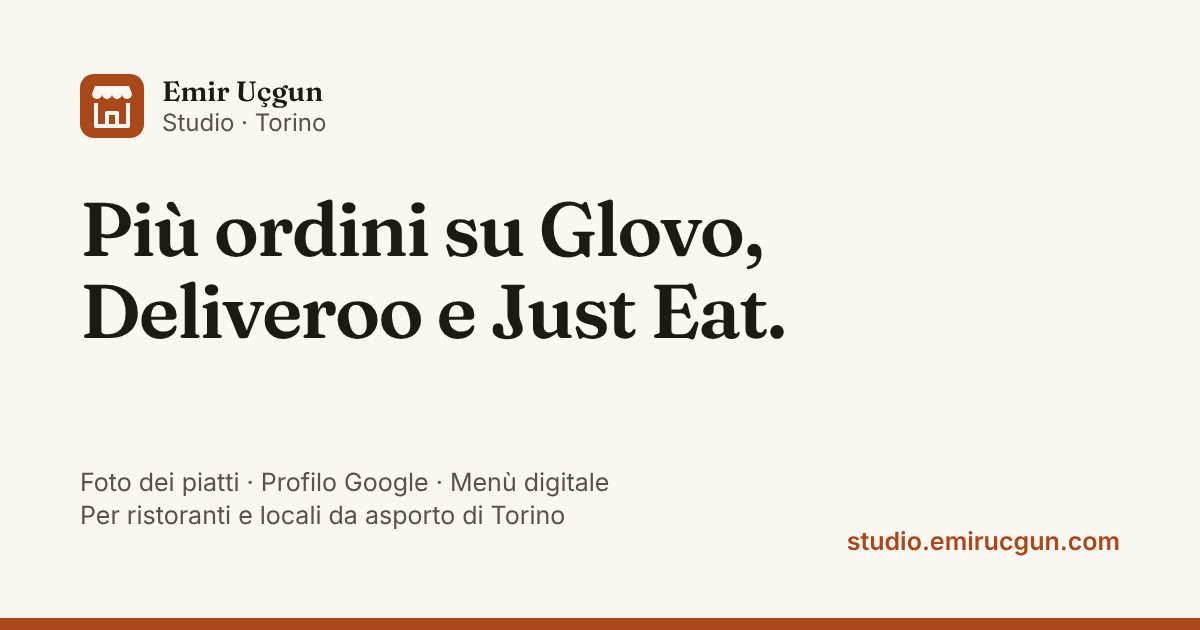
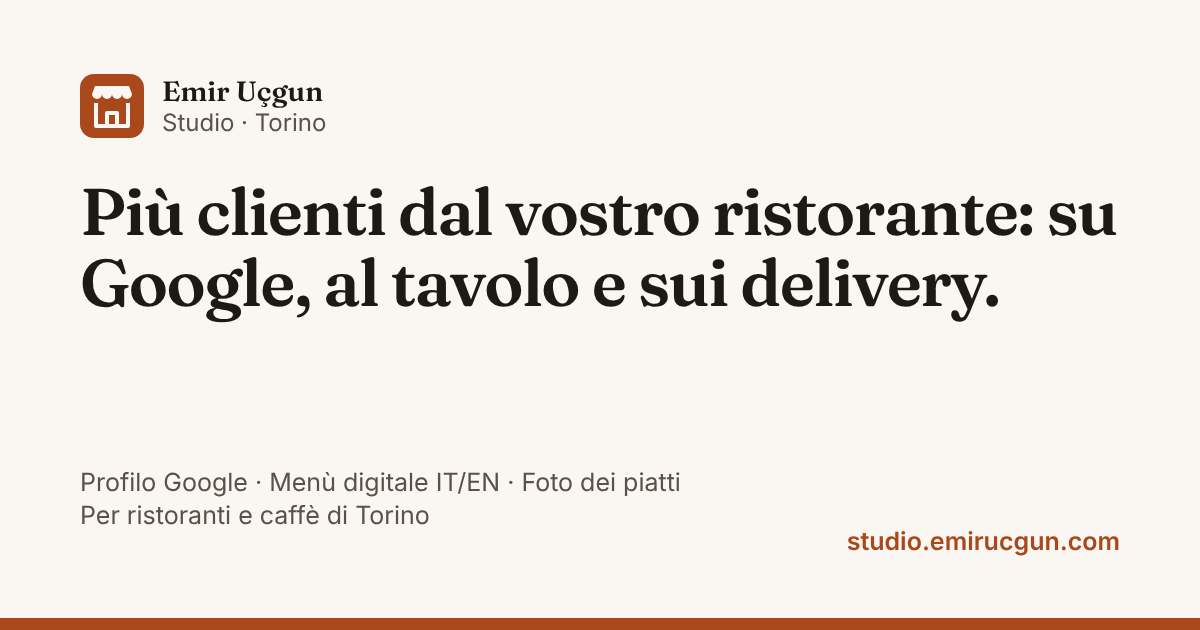
Studio: widen niche to Turin restaurants and cafés
- Hero: "Più clienti dal vostro ristorante: su Google, al tavolo e sui delivery."
- Three benefits in order: Google profile, IT/EN QR table menu, photos that sell on delivery apps
- "Foto Delivery" renamed "Foto dei piatti"; photos described for Google, menu, Instagram and delivery
- Delivery-only wording softened across how-I-work, FAQ, contact, config message, meta and og.png
- FAQ: English menu question and "I don't do delivery" question; prices unchanged

Claude-Session: https://claude.ai/code/session_01X2zHFE49Ky4rAq2XojQ9Pf

Changed region(s): [[0.0617, 0.3016, 0.925, 0.5429], [0.0617, 0.7238, 0.5858, 0.8444]]

diff --git a/studio/index.html b/studio/index.html
@@ -1,24 +1,24 @@
 <!doctype html>
-<html lang="it" data-title-en="Delivery dish photos and digital menus for Turin restaurants · Emir Uçgun">
+<html lang="it" data-title-en="Google profile, digital menu and dish photos for Turin restaurants · Emir Uçgun">
 <head>
 <meta charset="utf-8">
 <meta name="viewport" content="width=device-width, initial-scale=1, viewport-fit=cover">
 <script>(function(){var d=document.documentElement,l;d.classList.add('js');try{l=new URLSearchParams(location.search).get('lang')||localStorage.getItem('lang')}catch(e){}if(l==='en')d.lang='en'})();</script>
-<title>Foto piatti per il delivery e menù digitale per ristoranti a Torino · Emir Uçgun</title>
-<meta name="description" content="Foto dei piatti per Glovo, Deliveroo e Just Eat, profilo Google in ordine e menù digitale per ristoranti, pizzerie e locali da asporto di Torino. Analisi gratuita, nessuna password: prima vedete l'anteprima, poi pagate.">
+<title>Profilo Google, menù digitale e foto dei piatti per ristoranti a Torino · Emir Uçgun</title>
+<meta name="description" content="Più clienti per ristoranti e caffè di Torino: profilo Google che porta gente, menù digitale IT/EN con QR per i tavoli e foto dei piatti per Google, Instagram e app di delivery. Analisi gratuita, nessuna password.">
 <link rel="canonical" href="https://studio.emirucgun.com/">
 <meta name="theme-color" content="#FAF7F2">
 <meta property="og:type" content="website">
 <meta property="og:site_name" content="Emir Uçgun · Studio">
 <meta property="og:locale" content="it_IT">
 <meta property="og:locale:alternate" content="en_GB">
-<meta property="og:title" content="Più ordini su Glovo, Deliveroo e Just Eat · Foto piatti delivery a Torino">
-<meta property="og:description" content="Foto dei piatti che fanno venire fame, profilo Google in ordine e menù digitale per ristoranti di Torino. Analisi gratuita e senza impegno.">
+<meta property="og:title" content="Più clienti dal vostro ristorante: su Google, al tavolo e sui delivery">
+<meta property="og:description" content="Profilo Google in ordine, menù digitale IT/EN con QR e foto dei piatti per ristoranti e caffè di Torino. Analisi gratuita e senza impegno.">
 <meta property="og:url" content="https://studio.emirucgun.com/">
 <meta property="og:image" content="https://studio.emirucgun.com/studio/og.png">
 <meta property="og:image:width" content="1200">
 <meta property="og:image:height" content="630">
-<meta property="og:image:alt" content="Emir Uçgun: più ordini su Glovo, Deliveroo e Just Eat per i ristoranti di Torino">
+<meta property="og:image:alt" content="Emir Uçgun: più clienti per i ristoranti di Torino, su Google, al tavolo e sui delivery">
 <meta name="twitter:card" content="summary_large_image">
 <link rel="icon" href="/studio/favicon.svg" type="image/svg+xml">
 <link rel="apple-touch-icon" href="/studio/apple-touch-icon.png">
@@ -149,7 +149,8 @@ section{padding-block:clamp(64px,10vw,120px)}
 @media (min-width:760px){.problem .grid-3 .point + .point{border-top:0;padding-top:0;border-left:1px solid var(--line);padding-left:22px}}
 /* proof: what the platforms themselves report (no numbers of my own) */
 .proof{margin-top:clamp(48px,7vw,72px);padding-top:clamp(36px,5vw,48px);border-top:1px solid var(--line)}
-.proof > h3{font-size:clamp(1.4rem,3vw,1.75rem);margin-bottom:22px}
+.proof > h3{font-size:clamp(1.4rem,3vw,1.75rem)}
+.proof-lead{color:var(--ink-2);margin:8px 0 22px}
 .facts-2{display:grid;gap:16px}
 @media (min-width:760px){.facts-2{grid-template-columns:repeat(2,1fr);gap:22px}}
 .fact{background:var(--tint-2);border:1px solid var(--tint);border-radius:var(--r);padding:22px 24px;display:grid;gap:10px;align-content:start}
@@ -192,7 +193,7 @@ section{padding-block:clamp(64px,10vw,120px)}
 .custom p{color:var(--ink-2)}
 .custom p strong{color:var(--ink)}
 
-/* ---------- delivery photos ---------- */
+/* ---------- dish photos ---------- */
 .photos{background:var(--surface);border-bottom:1px solid var(--line)}
 .photos .head{margin-bottom:clamp(28px,5vw,44px)}
 .photos-body{display:grid;gap:36px;align-items:start}
@@ -401,7 +402,6 @@ footer p + p{margin-top:4px}
   <defs>
     <symbol id="i-check" viewBox="0 0 24 24"><path d="M4.5 12.5l5 5L19.5 7"/></symbol>
     <symbol id="i-pin" viewBox="0 0 24 24"><path d="M12 21s-7-6.2-7-11.5A7 7 0 0 1 19 9.5C19 14.8 12 21 12 21z"/><circle cx="12" cy="9.5" r="2.6"/></symbol>
-    <symbol id="i-alert" viewBox="0 0 24 24"><path d="M12 3.5L2.8 19.5h18.4z"/><path d="M12 10v4.2M12 17h.01"/></symbol>
     <symbol id="i-clock" viewBox="0 0 24 24"><circle cx="12" cy="12" r="8.5"/><path d="M12 7.5V12l3 2"/></symbol>
     <symbol id="i-gift" viewBox="0 0 24 24"><path d="M4 11h16v9H4zM3 7.5h18V11H3zM12 7.5V20"/><path d="M12 7.5S10.8 3.5 8.5 3.5a2 2 0 0 0 0 4M12 7.5s1.2-4 3.5-4a2 2 0 0 1 0 4"/></symbol>
     <symbol id="i-key" viewBox="0 0 24 24"><rect x="4.5" y="10.5" width="15" height="10" rx="2"/><path d="M8 10.5V7.5a4 4 0 0 1 8 0v3M12 14.5v2.5"/></symbol>
@@ -447,11 +447,11 @@ footer p + p{margin-top:4px}
 <section class="hero" aria-labelledby="hero-title">
   <div class="wrap">
     <div>
-      <p class="eyebrow"><span lang="it">Per ristoranti e locali da asporto · Torino</span><span lang="en">For restaurants and takeaways · Turin</span></p>
-      <h1 id="hero-title"><span lang="it">Più ordini su Glovo, Deliveroo e Just Eat.</span><span lang="en">More orders on Glovo, Deliveroo and Just Eat.</span></h1>
+      <p class="eyebrow"><span lang="it">Per ristoranti e caffè · Torino</span><span lang="en">For restaurants and cafés · Turin</span></p>
+      <h1 id="hero-title"><span lang="it">Più clienti dal vostro ristorante: su Google, al tavolo e sui delivery.</span><span lang="en">More customers for your restaurant: on Google, at the table and on delivery apps.</span></h1>
       <p class="lead">
-        <span lang="it">Foto dei piatti che fanno venire fame, profilo Google in ordine e menù chiaro. Per ristoranti, pizzerie e locali da asporto di Torino.</span>
-        <span lang="en">Dish photos that make people hungry, a tidy Google profile and a clear menu. For restaurants, pizzerias and takeaways in Turin.</span>
+        <span lang="it">Un profilo Google che porta gente, un menù digitale IT/EN per i tavoli e foto dei piatti che vendono anche sui delivery. Per trattorie, osterie, bistrot, pizzerie e ristoranti etnici di Torino.</span>
+        <span lang="en">A Google profile that brings people in, an IT/EN digital menu for your tables and dish photos that sell on delivery apps too. For trattorias, osterias, bistros, pizzerias and ethnic restaurants in Turin.</span>
       </p>
       <div class="cta">
         <a class="btn btn-primary" href="#contatti" data-wa>
@@ -486,28 +486,29 @@ footer p + p{margin-top:4px}
   </div>
 </section>
 
-<!-- ============ 2. THE PROBLEM + what the platforms report ============ -->
+<!-- ============ 2. THREE BENEFITS (in this order: Google, menu, photos) + what the platforms report ============ -->
 <section class="problem" aria-labelledby="problem-title">
   <div class="wrap">
     <div class="head">
-      <p class="eyebrow"><span lang="it">Perché conta</span><span lang="en">Why it matters</span></p>
-      <h2 id="problem-title"><span lang="it">Sulle app di delivery si ordina con gli occhi.</span><span lang="en">On delivery apps, people order with their eyes.</span></h2>
+      <p class="eyebrow"><span lang="it">Cosa faccio per voi</span><span lang="en">What I do for you</span></p>
+      <h2 id="problem-title"><span lang="it">Tre modi per portare più clienti al vostro locale.</span><span lang="en">Three ways to bring more customers to your restaurant.</span></h2>
+      <p class="lead"><span lang="it">Voi avete già una cucina da mandare avanti: a questa parte penso io.</span><span lang="en">You already have a kitchen to run: I take care of this part.</span></p>
     </div>
     <div class="grid-3">
       <div class="point">
-        <div class="num"><svg class="ico" aria-hidden="true"><use href="#i-clock"/></svg></div>
-        <h3><span lang="it">Si decide in pochi secondi</span><span lang="en">The choice takes a few seconds</span></h3>
-        <p><span lang="it">Su Glovo, Deliveroo e Just Eat il cliente scorre decine di locali e sceglie guardando le foto, prima ancora di leggere i prezzi.</span><span lang="en">On Glovo, Deliveroo and Just Eat, customers scroll past dozens of places and choose by the photos, before they even read the prices.</span></p>
+        <div class="num"><svg class="ico" aria-hidden="true"><use href="#i-pin"/></svg></div>
+        <h3><span lang="it">1. Un profilo Google che porta gente</span><span lang="en">1. A Google profile that brings people in</span></h3>
+        <p><span lang="it">Chi cerca dove mangiare decide su Google Maps. Foto belle, orari giusti, menù e recensioni con risposta: così sceglie voi e non il locale accanto.</span><span lang="en">People looking for somewhere to eat decide on Google Maps. Good photos, the right hours, a menu and answered reviews: that's how they pick you, not the place next door.</span></p>
+      </div>
+      <div class="point">
+        <div class="num"><svg class="ico" aria-hidden="true"><use href="#i-book"/></svg></div>
+        <h3><span lang="it">2. Un menù al tavolo che parla anche inglese</span><span lang="en">2. A table menu that speaks English too</span></h3>
+        <p><span lang="it">Menù digitale IT/EN con QR: i turisti capiscono piatti, prezzi e allergeni senza dover chiedere, e voi cambiate un prezzo senza ristampare nulla.</span><span lang="en">An IT/EN digital menu with a QR code: tourists understand dishes, prices and allergens without having to ask, and you change a price without reprinting anything.</span></p>
       </div>
       <div class="point">
         <div class="num"><svg class="ico" aria-hidden="true"><use href="#i-image"/></svg></div>
-        <h3><span lang="it">Senza una bella foto, il piatto viene saltato</span><span lang="en">Without a good photo, the dish gets skipped</span></h3>
-        <p><span lang="it">Piatti senza foto, o con foto scure fatte al volo col telefono, passano inosservati. Anche quando sono buonissimi.</span><span lang="en">Dishes with no photo, or a dark snap taken on a phone, go unnoticed. Even when they taste great.</span></p>
-      </div>
-      <div class="point">
-        <div class="num"><svg class="ico" aria-hidden="true"><use href="#i-alert"/></svg></div>
-        <h3><span lang="it">E voi non avete tempo</span><span lang="en">And you don't have the time</span></h3>
-        <p><span lang="it">Tra cucina, ordini e personale, sistemare menù, foto e profilo Google resta sempre in fondo alla lista. Di questo mi occupo io.</span><span lang="en">Between the kitchen, orders and staff, fixing menus, photos and Google always ends up at the bottom of the list. I take care of it.</span></p>
+        <h3><span lang="it">3. Foto che vendono, anche sui delivery</span><span lang="en">3. Photos that sell, on delivery apps too</span></h3>
+        <p><span lang="it">Su Glovo, Deliveroo e Just Eat si sceglie con gli occhi, in pochi secondi. Le stesse foto lavorano anche su Google, sul menù e su Instagram.</span><span lang="en">On Glovo, Deliveroo and Just Eat people choose with their eyes, in seconds. The same photos also work on Google, on your menu and on Instagram.</span></p>
       </div>
     </div>
 
@@ -517,6 +518,7 @@ footer p + p{margin-top:4px}
          DoorDash: merchants.doordash.com, "menu quality" article (at least 50% photo coverage, +13% sales on average). -->
     <div class="proof">
       <h3><span lang="it">I numeri delle piattaforme</span><span lang="en">What the platforms report</span></h3>
+      <p class="proof-lead"><span lang="it">Quanto contano le foto dei piatti, secondo le app di delivery:</span><span lang="en">How much dish photos matter, according to the delivery apps:</span></p>
       <div class="facts-2">
         <div class="fact">
           <span class="big">+25%</span>
@@ -534,15 +536,15 @@ footer p + p{margin-top:4px}
   </div>
 </section>
 
-<!-- ============ 3. PHOTOS FOR DELIVERY (the centerpiece) ============
+<!-- ============ 3. DISH PHOTOS (the centerpiece) ============
      The comparison uses /studio/food-before-1.jpg and /studio/food-after-1.jpg (same size and framing,
      4:3, about 1600 × 1200 px, under 250 KB each). Until both files exist, a neutral placeholder is shown. -->
 <section id="foto" class="photos" aria-labelledby="photos-title">
   <div class="wrap">
     <div class="head">
-      <p class="eyebrow"><span lang="it">Foto per il delivery</span><span lang="en">Photos for delivery apps</span></p>
+      <p class="eyebrow"><span lang="it">Foto dei piatti</span><span lang="en">Dish photos</span></p>
       <h2 id="photos-title"><span lang="it">Piatti veri, foto che fanno venire fame.</span><span lang="en">Real dishes, photos that make people hungry.</span></h2>
-      <p class="lead"><span lang="it">Le foto che fate con il telefono possono rendere molto di più. Trascinate per vedere la differenza.</span><span lang="en">The photos you take on your phone can do a lot more. Drag to see the difference.</span></p>
+      <p class="lead"><span lang="it">Le foto che fate con il telefono possono rendere molto di più, su Google, sul menù, su Instagram e sulle app di delivery. Trascinate per vedere la differenza.</span><span lang="en">The photos you take on your phone can do a lot more, on Google, your menu, Instagram and delivery apps. Drag to see the difference.</span></p>
     </div>
 
     <div class="photos-body">
@@ -579,7 +581,7 @@ footer p + p{margin-top:4px}
         <ol class="steps">
           <li><span><b><span lang="it">Scattate con il telefono</span><span lang="en">You shoot on your phone</span></b><span><span lang="it">Seguendo la mia guida di una pagina, poi me le mandate su WhatsApp.</span><span lang="en">Following my one-page guide, then send them to me on WhatsApp.</span></span></span></li>
           <li><span><b><span lang="it">Le sistemo</span><span lang="en">I edit them</span></b><span><span lang="it">Luce, colori, sfondo e inquadratura.</span><span lang="en">Light, colour, background and framing.</span></span></span></li>
-          <li><span><b><span lang="it">Ricevete i file pronti</span><span lang="en">You get the finished files</span></b><span><span lang="it">Nei formati giusti per le app di delivery e per Google.</span><span lang="en">In the right formats for delivery apps and Google.</span></span></span></li>
+          <li><span><b><span lang="it">Ricevete i file pronti</span><span lang="en">You get the finished files</span></b><span><span lang="it">Nei formati giusti per Google, menù, Instagram e app di delivery.</span><span lang="en">In the right formats for Google, your menu, Instagram and delivery apps.</span></span></span></li>
         </ol>
         <a class="link" href="#pacchetti"><span lang="it">Pacchetti foto da <span data-eur="119">119 €</span></span><span lang="en">Photo packages from <span data-eur="119">119 €</span></span></a>
       </div>
@@ -589,8 +591,8 @@ footer p + p{margin-top:4px}
 
 <!-- ============ 4. PACKAGES ============
      Prices: edit the data-eur numbers (the text inside is only the no-JavaScript fallback).
-     List prices (struck through): Foto Delivery 149 · Visibilità 349 · Completo 449 · Gestione mensile 149/mese.
-     Launch prices, valid until 31 December: Foto Delivery 119 · Visibilità 249 · Completo 349.
+     List prices (struck through): Foto dei piatti 149 · Visibilità 349 · Completo 449 · Gestione mensile 149/mese.
+     Launch prices, valid until 31 December: Foto dei piatti 119 · Visibilità 249 · Completo 349.
      After 31 December: delete each <p class="list"> and <p class="launch">, set each .price to the list price, and update
      the "Pacchetti foto da 119 €" link in the photos section. Prices also appear in the payment rule and the FAQ. -->
 <section id="pacchetti" aria-labelledby="packs-title">
@@ -598,16 +600,16 @@ footer p + p{margin-top:4px}
     <div class="head">
       <p class="eyebrow"><span lang="it">Pacchetti</span><span lang="en">Packages</span></p>
       <h2 id="packs-title"><span lang="it">Prezzi chiari, concordati prima di iniziare.</span><span lang="en">Clear prices, agreed before I start.</span></h2>
-      <p class="lead"><span lang="it">Tre pacchetti pensati per chi vende su Glovo, Deliveroo e Just Eat. Non sapete quale scegliere? Partite dall'analisi gratuita: vi dico io da dove conviene cominciare.</span><span lang="en">Three packages built for restaurants selling on Glovo, Deliveroo and Just Eat. Not sure which one? Start with the free review and I'll tell you where it makes sense to begin.</span></p>
+      <p class="lead"><span lang="it">Tre pacchetti pensati per ristoranti e caffè. Non sapete quale scegliere? Partite dall'analisi gratuita: vi dico io da dove conviene cominciare.</span><span lang="en">Three packages built for restaurants and cafés. Not sure which one? Start with the free review and I'll tell you where it makes sense to begin.</span></p>
     </div>
 
     <div class="packs">
       <article class="card pack" aria-labelledby="pk-photo">
-        <h3 id="pk-photo">Foto Delivery</h3>
+        <h3 id="pk-photo"><span lang="it">Foto dei piatti</span><span lang="en">Dish photos</span></h3>
         <p class="pack-intro"><span lang="it">Per partire dalle foto.</span><span lang="en">To start with the photos.</span></p>
         <ul class="ticks">
           <li><svg class="ico" aria-hidden="true"><use href="#i-check"/></svg><span><span lang="it">15 piatti ritoccati: luce, colori, sfondo e inquadratura</span><span lang="en">15 dishes edited: light, colour, background and framing</span></span></li>
-          <li><svg class="ico" aria-hidden="true"><use href="#i-check"/></svg><span><span lang="it">Formati pronti per Glovo, Deliveroo, Just Eat e Google</span><span lang="en">Formats ready for Glovo, Deliveroo, Just Eat and Google</span></span></li>
+          <li><svg class="ico" aria-hidden="true"><use href="#i-check"/></svg><span><span lang="it">Pronte per Google, menù, Instagram e app di delivery</span><span lang="en">Ready for Google, your menu, Instagram and delivery apps</span></span></li>
           <li><svg class="ico" aria-hidden="true"><use href="#i-check"/></svg><span><span lang="it">Guida di una pagina per scattare con il telefono</span><span lang="en">One-page guide for shooting on your phone</span></span></li>
         </ul>
         <div class="pack-foot">
@@ -623,9 +625,9 @@ footer p + p{margin-top:4px}
       <article class="card pack pack-pop" aria-labelledby="pk-vis">
         <span class="badge"><span lang="it">Il più richiesto</span><span lang="en">Most popular</span></span>
         <h3 id="pk-vis"><span lang="it">Visibilità</span><span lang="en">Visibility</span></h3>
-        <p class="pack-intro"><span lang="it">Per farvi scegliere sulle app e trovare su Google.</span><span lang="en">To get chosen on the apps and found on Google.</span></p>
+        <p class="pack-intro"><span lang="it">Per farvi trovare su Google e capire al tavolo.</span><span lang="en">To get found on Google and understood at the table.</span></p>
         <ul class="ticks">
-          <li><svg class="ico" aria-hidden="true"><use href="#i-check"/></svg><span><span lang="it">20 foto ritoccate, pronte per le app di delivery e Google</span><span lang="en">20 edited photos, ready for delivery apps and Google</span></span></li>
+          <li><svg class="ico" aria-hidden="true"><use href="#i-check"/></svg><span><span lang="it">20 foto ritoccate, per Google, menù, Instagram e delivery</span><span lang="en">20 edited photos, for Google, menu, Instagram and delivery</span></span></li>
           <li><svg class="ico" aria-hidden="true"><use href="#i-check"/></svg><span><span lang="it">Profilo Google in ordine: foto, orari, categorie e menù</span><span lang="en">Google profile, sorted: photos, hours, categories and menu</span></span></li>
           <li><svg class="ico" aria-hidden="true"><use href="#i-check"/></svg><span><span lang="it">Menù digitale IT/EN con QR, cartoncino pronto da stampare</span><span lang="en">IT/EN digital menu with QR code, table card ready to print</span></span></li>
         </ul>
@@ -644,7 +646,7 @@ footer p + p{margin-top:4px}
         <p class="pack-intro"><span lang="it">Per non pensarci più.</span><span lang="en">So you don't have to think about it.</span></p>
         <ul class="ticks">
           <li><svg class="ico" aria-hidden="true"><use href="#i-check"/></svg><span><span lang="it">Tutto quello che c'è in Visibilità</span><span lang="en">Everything in Visibility</span></span></li>
-          <li><svg class="ico" aria-hidden="true"><use href="#i-check"/></svg><span><span lang="it">Descrizioni del menù riscritte per il delivery</span><span lang="en">Menu descriptions rewritten for delivery</span></span></li>
+          <li><svg class="ico" aria-hidden="true"><use href="#i-check"/></svg><span><span lang="it">Descrizioni del menù riscritte, chiare al tavolo e sui delivery</span><span lang="en">Menu descriptions rewritten, clear at the table and on delivery apps</span></span></li>
           <li><svg class="ico" aria-hidden="true"><use href="#i-check"/></svg><span><span lang="it">5 post social con le vostre foto</span><span lang="en">5 social posts with your photos</span></span></li>
           <li><svg class="ico" aria-hidden="true"><use href="#i-check"/></svg><span><span lang="it">1 mese di gestione mensile incluso</span><span lang="en">1 month of monthly management included</span></span></li>
         </ul>
@@ -690,20 +692,20 @@ footer p + p{margin-top:4px}
       <li class="card rule">
         <div class="num"><svg class="ico" aria-hidden="true"><use href="#i-gift"/></svg></div>
         <h3><span lang="it">Prima, un'analisi gratuita</span><span lang="en">First, a free review</span></h3>
-        <p><span lang="it">Guardo come appare il vostro locale sulle app di delivery e su Google e vi mando 3 cose concrete da migliorare. Senza impegno: potete anche farle da soli.</span><span lang="en">I look at how your restaurant shows up on the delivery apps and on Google and send you 3 concrete things to improve. No obligation: you can even do them yourselves.</span></p>
+        <p><span lang="it">Guardo come appare il vostro locale su Google, nel menù e, se le usate, sulle app di delivery, e vi mando 3 cose concrete da migliorare. Senza impegno: potete anche farle da soli.</span><span lang="en">I look at how your restaurant shows up on Google, in its menu and, if you use them, on the delivery apps, and send you 3 concrete things to improve. No obligation: you can even do them yourselves.</span></p>
       </li>
       <li class="card rule">
         <div class="num"><svg class="ico" aria-hidden="true"><use href="#i-key"/></svg></div>
         <h3><span lang="it">Non vi chiedo mai le password</span><span lang="en">I never ask for your passwords</span></h3>
         <p><span lang="it">Mi aggiungete come gestore del vostro profilo Google e potete rimuovermi quando volete. Il profilo resta sempre vostro.</span><span lang="en">You add me as a manager on your Google profile and can remove me at any time. The profile always stays yours.</span></p>
-        <p><span lang="it">Lo stesso vale per le app di delivery: mi aggiungete come utente, mai con le vostre credenziali.</span><span lang="en">The same goes for the delivery apps: you add me as a user, never with your own login.</span></p>
+        <p><span lang="it">Lo stesso vale per le app di delivery, se le usate: mi aggiungete come utente, mai con le vostre credenziali.</span><span lang="en">The same goes for delivery apps, if you use them: you add me as a user, never with your own login.</span></p>
       </li>
       <li class="card rule">
         <div class="num"><svg class="ico" aria-hidden="true"><use href="#i-hand"/></svg></div>
         <h3><span lang="it">Prima l'anteprima, poi pagate</span><span lang="en">Preview first, then you pay</span></h3>
         <p><strong><span lang="it">Prima vedete un'anteprima del lavoro. Se non vi convince, non pagate nulla.</span><span lang="en">You see a preview first. If you're not convinced, you pay nothing.</span></strong></p>
         <ul class="pay">
-          <li><b><span lang="it">Alla consegna:</span><span lang="en">On delivery:</span></b> <span lang="it">Foto Delivery.</span><span lang="en">Foto Delivery.</span></li>
+          <li><b><span lang="it">Alla consegna:</span><span lang="en">On delivery:</span></b> <span lang="it">Foto dei piatti.</span><span lang="en">Dish photos.</span></li>
           <li><b>50% + 50%:</b> <span lang="it">Visibilità e Completo. Metà quando approvate l'anteprima, metà alla consegna.</span><span lang="en">Visibility and Complete. Half when you approve the preview, half on delivery.</span></li>
           <li><b><span lang="it">Mese per mese:</span><span lang="en">Month by month:</span></b> <span lang="it">la gestione mensile.</span><span lang="en">monthly management.</span></li>
         </ul>
@@ -722,14 +724,14 @@ footer p + p{margin-top:4px}
       <li class="card rule">
         <div class="num"><svg class="ico" aria-hidden="true"><use href="#i-image"/></svg></div>
         <h3><span lang="it">Vi aiuto a caricarle</span><span lang="en">I help you upload them</span></h3>
-        <p><span lang="it">Vi consegno i file pronti e vi guido nel caricamento sull'app, oppure li carico io se mi aggiungete come utente.</span><span lang="en">I hand you the finished files and guide you through uploading them to the app, or I upload them myself if you add me as a user.</span></p>
+        <p><span lang="it">Vi consegno i file pronti e vi guido nel caricamento su Google o sull'app, oppure li carico io se mi aggiungete come utente.</span><span lang="en">I hand you the finished files and guide you through uploading them to Google or the app, or I upload them myself if you add me as a user.</span></p>
       </li>
     </ol>
 
     <p class="steps-title"><span lang="it">In pratica</span><span lang="en">In practice</span></p>
     <ol class="steps">
-      <li><span><b><span lang="it">Mi scrivete</span><span lang="en">You message me</span></b><span><span lang="it">Su WhatsApp o per email, con il nome del locale o il link su Glovo, Deliveroo o Just Eat.</span><span lang="en">On WhatsApp or by email, with your restaurant's name or its Glovo, Deliveroo or Just Eat link.</span></span></span></li>
-      <li><span><b><span lang="it">Ricevete l'analisi</span><span lang="en">You get the review</span></b><span><span lang="it">3 cose concrete da migliorare su foto, menù e Google, gratis.</span><span lang="en">3 concrete things to improve in your photos, menu and Google, for free.</span></span></span></li>
+      <li><span><b><span lang="it">Mi scrivete</span><span lang="en">You message me</span></b><span><span lang="it">Su WhatsApp o per email, con il nome del vostro locale.</span><span lang="en">On WhatsApp or by email, with your restaurant's name.</span></span></span></li>
+      <li><span><b><span lang="it">Ricevete l'analisi</span><span lang="en">You get the review</span></b><span><span lang="it">3 cose concrete da migliorare su Google, menù e foto, gratis.</span><span lang="en">3 concrete things to improve on Google, your menu and photos, for free.</span></span></span></li>
       <li><span><b><span lang="it">Decidete voi</span><span lang="en">You decide</span></b><span><span lang="it">Se volete procedere, concordiamo pacchetto e prezzo. Altrimenti, nessun problema.</span><span lang="en">If you want to go ahead, we agree on the package and price. If not, no problem.</span></span></span></li>
     </ol>
   </div>
@@ -882,7 +884,7 @@ footer p + p{margin-top:4px}
       <p class="eyebrow mb-0"><span lang="it">Chi sono</span><span lang="en">About me</span></p>
       <h2 id="about-title"><span lang="it">Piacere, sono Emir.</span><span lang="en">Nice to meet you, I'm Emir.</span></h2>
       <p><span lang="it">Studio Ingegneria Informatica al Politecnico di Torino e vivo a Torino. Sono uno sviluppatore: creo app per iPhone e Android e siti web, e alcune mie app sono pubblicate sugli store.</span><span lang="en">I study Computer Engineering at Politecnico di Torino and live in Turin. I'm a developer: I build iPhone and Android apps and websites, and some of my apps are published on the app stores.</span></p>
-      <p><span lang="it">Ho iniziato questo progetto perché vedo tanti locali di Torino dove si mangia benissimo, ma che sulle app di delivery e su Google si presentano con foto scure e menù confusi. Lavoro da solo: quando mi scrivete, vi rispondo sempre io.</span><span lang="en">I started this because I see so many places in Turin with great food that show up on delivery apps and Google with dark photos and confusing menus. I work on my own: when you write to me, it's always me who replies.</span></p>
+      <p><span lang="it">Ho iniziato questo progetto perché vedo tanti locali di Torino dove si mangia benissimo, ma che su Google, al tavolo e sui delivery si presentano con foto scure e menù confusi. Lavoro da solo: quando mi scrivete, vi rispondo sempre io.</span><span lang="en">I started this because I see so many places in Turin with great food that show up on Google, at the table and on delivery apps with dark photos and confusing menus. I work on my own: when you write to me, it's always me who replies.</span></p>
       <dl class="facts">
         <div><dt><span lang="it">Dove</span><span lang="en">Where</span></dt><dd>Torino</dd></div>
         <div><dt><span lang="it">Studio</span><span lang="en">Studies</span></dt><dd>Politecnico di Torino</dd></div>
@@ -929,8 +931,12 @@ footer p + p{margin-top:4px}
       <p><span lang="it">No. Li fotografate voi con il telefono, nel vostro locale, seguendo la mia guida di una pagina: luce, angolazione e sfondo spiegati in modo semplice. Poi me le mandate su WhatsApp e al resto penso io.</span><span lang="en">No. You shoot them yourself on your phone, in your own kitchen or dining room, following my one-page guide: light, angle and background, explained simply. Then you send them to me on WhatsApp and I take care of the rest.</span></p>
     </details>
     <details>
-      <summary><span lang="it">Con quali app lavori?</span><span lang="en">Which apps do you work with?</span></summary>
-      <p><span lang="it">Glovo, Deliveroo e Just Eat. Vi consegno le foto nei formati che chiede ciascuna app, più le versioni per il profilo Google.</span><span lang="en">Glovo, Deliveroo and Just Eat. I deliver the photos in the formats each app asks for, plus versions for your Google profile.</span></p>
+      <summary><span lang="it">Il menù digitale è anche in inglese?</span><span lang="en">Is the digital menu in English too?</span></summary>
+      <p><span lang="it">Sì: italiano e inglese, con un tocco. I turisti leggono piatti, prezzi e allergeni nella loro lingua. Vi consegno anche il cartoncino con il QR, pronto da stampare per i tavoli.</span><span lang="en">Yes: Italian and English, with one tap. Tourists read dishes, prices and allergens in their own language. I also give you the table card with the QR code, ready to print.</span></p>
+    </details>
+    <details>
+      <summary><span lang="it">Non faccio delivery: le foto mi servono lo stesso?</span><span lang="en">I don't do delivery: are the photos still useful?</span></summary>
+      <p><span lang="it">Sì. Le stesse foto vanno sul profilo Google, sul menù digitale e su Instagram. Se invece usate Glovo, Deliveroo o Just Eat, ve le consegno anche nei formati che chiede ciascuna app.</span><span lang="en">Yes. The same photos go on your Google profile, your digital menu and Instagram. If you do use Glovo, Deliveroo or Just Eat, I also deliver them in the formats each app asks for.</span></p>
     </details>
     <details>
       <summary><span lang="it">Glovo, Deliveroo e Just Eat accetteranno le foto?</span><span lang="en">Will Glovo, Deliveroo and Just Eat accept the photos?</span></summary>
@@ -946,7 +952,7 @@ footer p + p{margin-top:4px}
     </details>
     <details>
       <summary><span lang="it">Come si paga?</span><span lang="en">How do I pay?</span></summary>
-      <p><span lang="it">Con bonifico o PayPal, intestati a me (Emir Uçgun), con regolare ricevuta per prestazione occasionale. Foto Delivery (<span data-eur="119">119 €</span>) si paga alla consegna. Visibilità (<span data-eur="249">249 €</span>) e Completo (<span data-eur="349">349 €</span>): 50% quando approvate l'anteprima, 50% alla consegna. Sono prezzi di lancio, validi fino al 31 dicembre. La gestione mensile (<span data-eur="149">149 €</span>/mese) si paga mese per mese.</span><span lang="en">By bank transfer or PayPal, in my own name (Emir Uçgun), with a proper receipt for occasional services (ricevuta per prestazione occasionale). Foto Delivery (<span data-eur="119">119 €</span>) is paid on delivery. Visibility (<span data-eur="249">249 €</span>) and Complete (<span data-eur="349">349 €</span>): 50% when you approve the preview, 50% on delivery. These are launch prices, valid until 31 December. Monthly management (<span data-eur="149">149 €</span>/month) is paid month by month.</span></p>
+      <p><span lang="it">Con bonifico o PayPal, intestati a me (Emir Uçgun), con regolare ricevuta per prestazione occasionale. Foto dei piatti (<span data-eur="119">119 €</span>) si paga alla consegna. Visibilità (<span data-eur="249">249 €</span>) e Completo (<span data-eur="349">349 €</span>): 50% quando approvate l'anteprima, 50% alla consegna. Sono prezzi di lancio, validi fino al 31 dicembre. La gestione mensile (<span data-eur="149">149 €</span>/mese) si paga mese per mese.</span><span lang="en">By bank transfer or PayPal, in my own name (Emir Uçgun), with a proper receipt for occasional services (ricevuta per prestazione occasionale). Dish photos (<span data-eur="119">119 €</span>) is paid on delivery. Visibility (<span data-eur="249">249 €</span>) and Complete (<span data-eur="349">349 €</span>): 50% when you approve the preview, 50% on delivery. These are launch prices, valid until 31 December. Monthly management (<span data-eur="149">149 €</span>/month) is paid month by month.</span></p>
     </details>
     <details>
       <summary><span lang="it">Posso disdire la gestione mensile?</span><span lang="en">Can I cancel the monthly management?</span></summary>
@@ -974,7 +980,7 @@ footer p + p{margin-top:4px}
       <div>
         <p class="eyebrow"><span lang="it">Contatti</span><span lang="en">Contact</span></p>
         <h2 id="contact-title"><span lang="it">Richiedete l'analisi gratuita.</span><span lang="en">Ask for your free review.</span></h2>
-        <p class="lead"><span lang="it">Mandatemi il nome del locale o il link su Glovo, Deliveroo o Just Eat. Vi rispondo con 3 cose concrete da migliorare, senza impegno.</span><span lang="en">Send me your restaurant's name or its Glovo, Deliveroo or Just Eat link. I'll reply with 3 concrete things to improve, no obligation.</span></p>
+        <p class="lead"><span lang="it">Mandatemi il nome del vostro locale. Vi rispondo con 3 cose concrete da migliorare, senza impegno.</span><span lang="en">Send me your restaurant's name. I'll reply with 3 concrete things to improve, no obligation.</span></p>
       </div>
       <div class="btns">
         <a class="btn btn-primary" href="#contatti" data-wa><svg class="ico" aria-hidden="true"><use href="#i-chat"/></svg><span lang="it">Scrivetemi su WhatsApp</span><span lang="en">Message me on WhatsApp</span></a>

diff --git a/studio/config.js b/studio/config.js
@@ -27,8 +27,8 @@ window.STUDIO = {
 
   // The text WhatsApp and email open with, already typed for the visitor.
   message: {
-    it: "Buongiorno Emir, ho visto il sito studio.emirucgun.com e vorrei un'analisi gratuita per il mio locale. Nome del locale (o link su Glovo, Deliveroo o Just Eat): ",
-    en: "Hello Emir, I saw studio.emirucgun.com and I'd like a free review for my restaurant. Restaurant name (or Glovo, Deliveroo or Just Eat link): "
+    it: "Buongiorno Emir, ho visto il sito studio.emirucgun.com e vorrei un'analisi gratuita per il mio locale. Nome del locale: ",
+    en: "Hello Emir, I saw studio.emirucgun.com and I'd like a free review for my restaurant. Restaurant name: "
   },
   emailSubject: {
     it: 'Richiesta analisi gratuita',

diff --git a/README.md b/README.md
@@ -55,15 +55,15 @@ Vercel project settings: Framework Preset **Other**; Build, Output and Install c
 The repository root is served as-is.
 
 ## Studio subdomain (studio.emirucgun.com)
-A services site for Turin restaurants that sell on delivery apps (Glovo, Deliveroo, Just Eat) lives in `studio/` and is served at **studio.emirucgun.com**. It does not touch any of the files above.
+A services site for Turin restaurants and cafés (Google profile, IT/EN QR menu, dish photos for Google, Instagram and delivery apps) lives in `studio/` and is served at **studio.emirucgun.com**. It does not touch any of the files above.
 - `studio/index.html`: the single-page site. `studio/demo/menu/index.html`: the digital menu demo (`/demo/menu`).
 - `studio/config.js`: **every placeholder in one place** (WhatsApp, phone, email, LinkedIn, photo). Edit only this file.
 - `studio/site.js`: IT | EN toggle, contact links, price formatting. Both languages sit side by side in the HTML as
   `<span lang="it">…</span><span lang="en">…</span>`; edit both when you change copy. Prices live in `data-eur="…"`.
 - `studio/emir.jpg`: your photo (square, ~800 × 800 px, under 150 KB). Until it exists, initials are shown.
-- `studio/food-before-1.jpg` and `studio/food-after-1.jpg`: the before/after photo comparison, the centrepiece of the "Foto per il delivery"
+- `studio/food-before-1.jpg` and `studio/food-after-1.jpg`: the before/after photo comparison, the centrepiece of the "Foto dei piatti"
   section (same framing, 4:3, ~1600 × 1200 px, under 250 KB each). Until both exist, a placeholder is shown.
-- Pricing: three packages (Foto Delivery, Visibilità, Completo), each showing the struck-through list price and a launch price
+- Pricing: three packages (Foto dei piatti, Visibilità, Completo), each showing the struck-through list price and a launch price
   valid until 31 December, plus a monthly management band and a one-line "Su misura" link to contact. The price comment above the
   packages section says what to change once the launch period ends; prices also appear in the payment rule, the FAQ and the
   "Pacchetti foto da …" link in the photos section.
